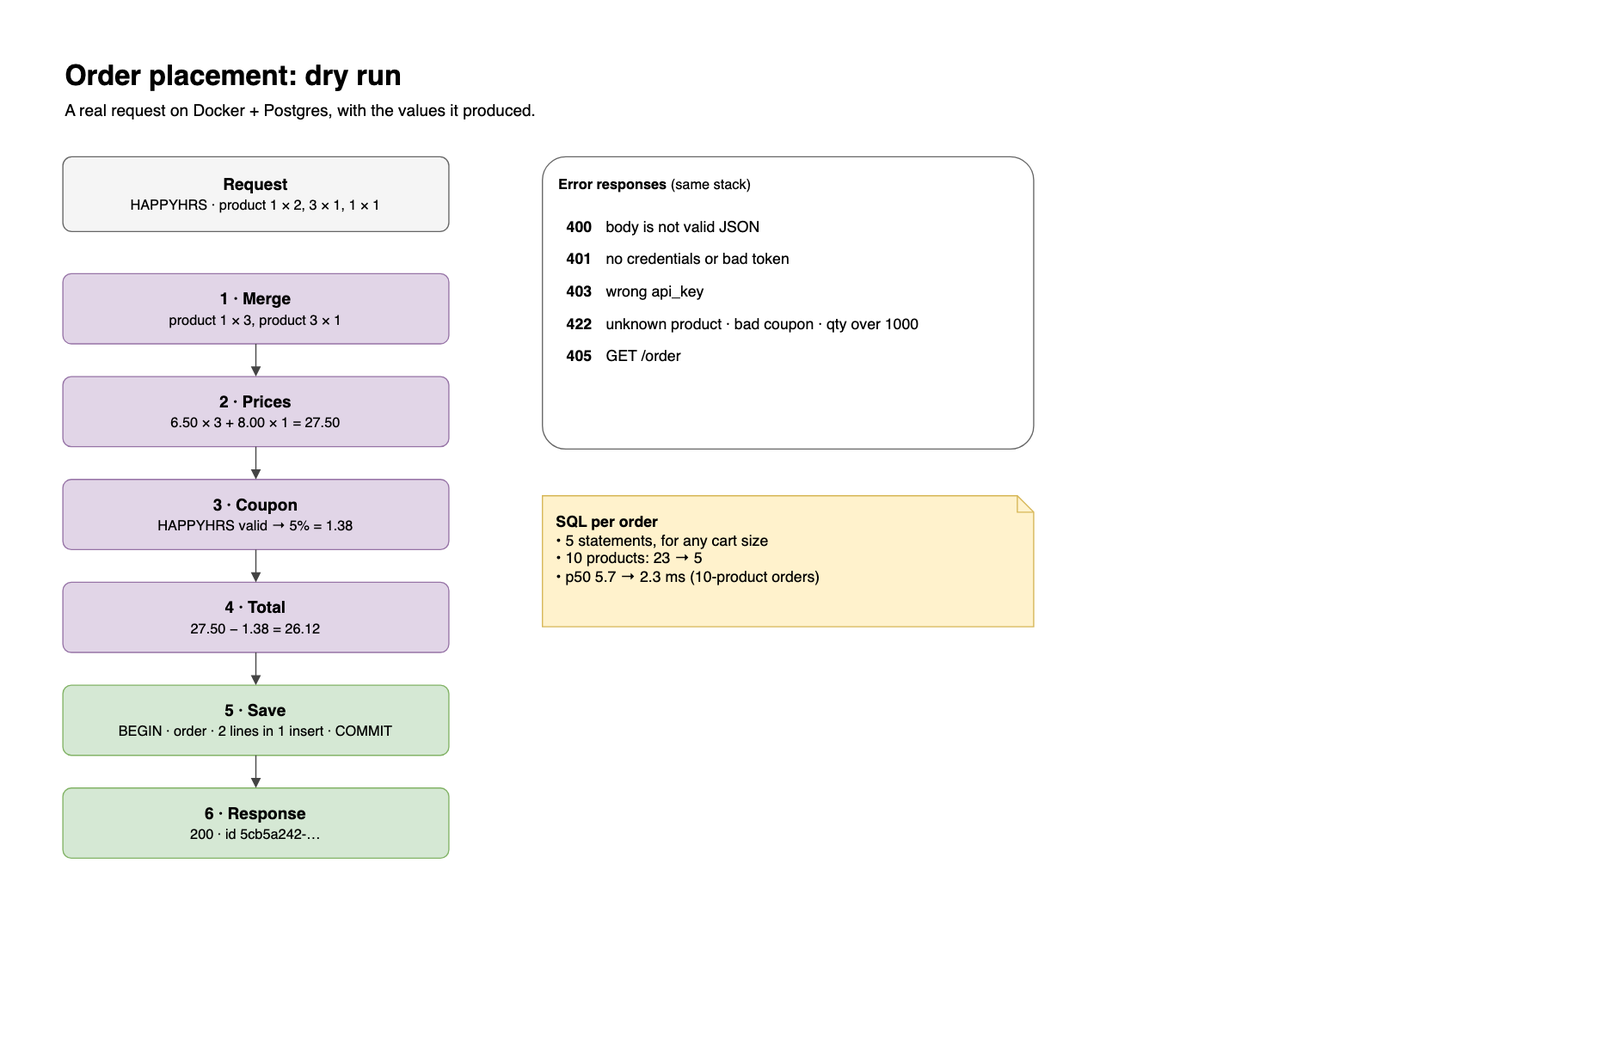
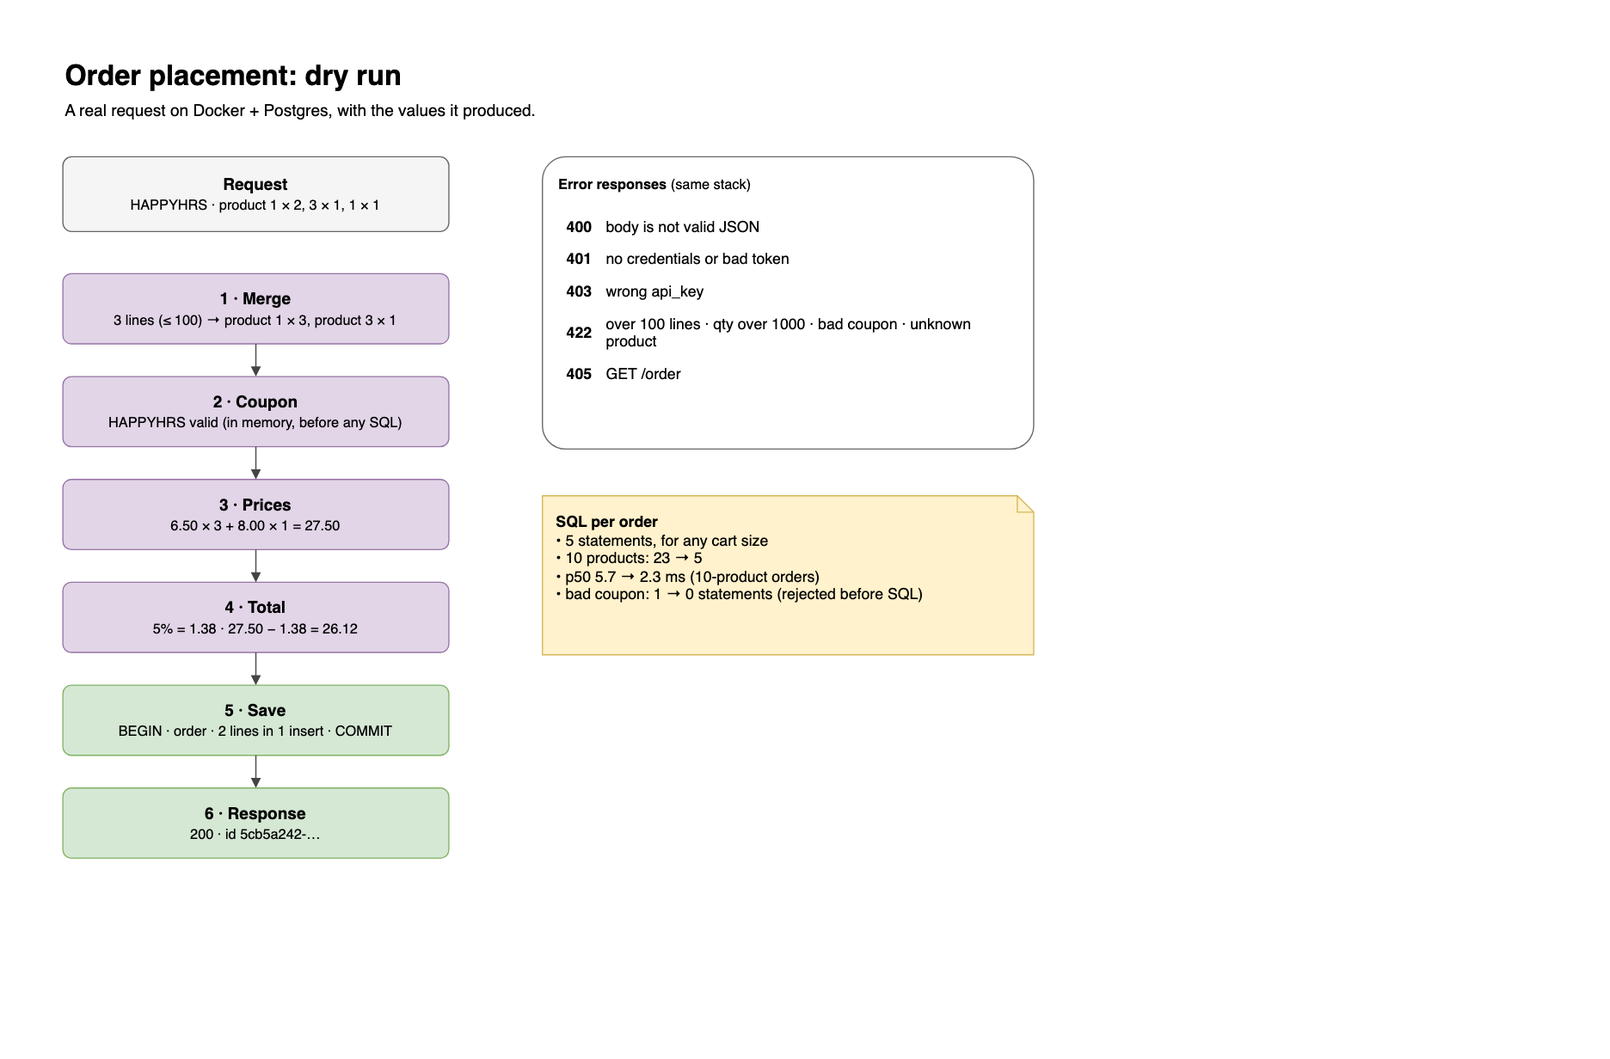
feat: cap order lines at 100 and check the coupon before products
An order with more than 100 lines is rejected with 422 before any
per-line work, counted as too_many_items. The in-memory coupon check
now runs before the product query, so an invalid coupon costs no SQL
(was 1 statement); an order with both a bad coupon and an unknown
product now gets the coupon error. Order diagrams, README, CHANGELOG
and the skill are updated.

diff --git a/.claude/skills/oolio-kart/scripts/diagrams/generate.py b/.claude/skills/oolio-kart/scripts/diagrams/generate.py
@@ -56,6 +56,7 @@ E(oh, pr, pg, "", extra="exitX=0.5;exitY=1;entryX=0.25;entryY=0;")
 E(oh, rp, pg, "", extra="exitX=0.5;exitY=1;entryX=0.75;entryY=0;")
 note(oh, "Key points", ["Prices come from the catalog, never the client",
                         "5 SQL statements per order, any cart size",
+                        "At most 100 lines; a bad coupon never reaches the DB",
                         "Errors: 400 · 401 · 403 · 422 · 500"], 250, 300, 420)
 
 ol = Page("LLD - Order placement flow", "ol")
@@ -84,24 +85,26 @@ lbox("Middleware", "request id · metrics · logs · CORS", "blue")
 ldecide("Credentials valid?", "401 missing or bad token<br>403 wrong api_key")
 ldecide("Allowed to order?", "403 missing scope")
 ldecide("Valid JSON?", "400 bad JSON")
-ldecide("Items OK?<br><span style='font-size:11px'>not empty · qty 1 to 1000</span>", "422 invalid items")
+ldecide("Items OK?<br><span style='font-size:11px'>1 to 100 lines · qty 1 to 1000</span>", "422 invalid items<br>or more than 100 lines")
 lbox("Merge duplicates", "same product → one line")
+ldecide("Coupon valid?<br><span style='font-size:11px'>in memory, if one was sent</span>", "422 invalid coupon<br>(no SQL sent)")
 lbox("Look up products", "1 query for the whole cart")
 ldecide("All products exist?", "422 lists every<br>unknown product")
-ldecide("Coupon valid?<br><span style='font-size:11px'>if one was sent</span>", "422 invalid coupon")
 lbox("Price the order", "subtotal · 5% discount · total")
 lbox("Save", "1 transaction: order + all lines", "green")
 lbox("200 OK", "order JSON", "green")
-note(ol, "Why it is fast", ["1 query reads every product", "1 insert writes every line",
-                            "5 statements for any cart size (was 23 for 10 products)"], 900, 110, 380)
+note(ol, "Why it is fast", ["Cheap checks first: line cap, then the in-memory coupon, then SQL",
+                            "1 query reads every product", "1 insert writes every line",
+                            "5 statements for any cart size (was 23 for 10 products)",
+                            "A bad coupon costs 0 statements (was 1)"], 900, 110, 380)
 
 od = Page("Dry run - real request", "od")
 header(od, "Order placement: dry run", "A real request on Docker + Postgres, with the values it produced.")
 B(od, "Request", "HAPPYHRS · product 1 × 2, 3 × 1, 1 × 1", 30, 110, 330, 64, "gray")
-rows = [("1 · Merge", "product 1 × 3, product 3 × 1"),
-        ("2 · Prices", "6.50 × 3 + 8.00 × 1 = 27.50"),
-        ("3 · Coupon", "HAPPYHRS valid → 5% = 1.38"),
-        ("4 · Total", "27.50 − 1.38 = 26.12"),
+rows = [("1 · Merge", "3 lines (≤ 100) → product 1 × 3, product 3 × 1"),
+        ("2 · Coupon", "HAPPYHRS valid (in memory, before any SQL)"),
+        ("3 · Prices", "6.50 × 3 + 8.00 × 1 = 27.50"),
+        ("4 · Total", "5% = 1.38 · 27.50 − 1.38 = 26.12"),
         ("5 · Save", "BEGIN · order · 2 lines in 1 insert · COMMIT"),
         ("6 · Response", "200 · id 5cb5a242-…")]
 prev = None
@@ -117,11 +120,12 @@ table = ("<b>Error responses</b> (same stack)<br><br>"
          "<tr><td><b>400</b></td><td>body is not valid JSON</td></tr>"
          "<tr><td><b>401</b></td><td>no credentials or bad token</td></tr>"
          "<tr><td><b>403</b></td><td>wrong api_key</td></tr>"
-         "<tr><td><b>422</b></td><td>unknown product · bad coupon · qty over 1000</td></tr>"
+         "<tr><td><b>422</b></td><td>over 100 lines · qty over 1000 · bad coupon · unknown product</td></tr>"
          "<tr><td><b>405</b></td><td>GET /order</td></tr></table>")
 od.box(table, 440, 110, 420, 250, "white", extra="align=left;verticalAlign=top;spacingLeft=12;spacingTop=10;")
 note(od, "SQL per order", ["5 statements, for any cart size", "10 products: 23 → 5",
-                           "p50 5.7 → 2.3 ms (10-product orders)"], 440, 400, 420)
+                           "p50 5.7 → 2.3 ms (10-product orders)",
+                           "bad coupon: 1 → 0 statements (rejected before SQL)"], 440, 400, 420)
 
 # ====================================================================== COUPON
 ch = Page("HLD - Coupon validation", "ch")

diff --git a/internal/order/service_test.go b/internal/order/service_test.go
@@ -43,6 +43,15 @@ func item(productID string, quantity int) order.Item {
 	return order.Item{ProductID: productID, Quantity: quantity}
 }
 
+// lines returns n copies of one line, e.g. to test the line-count cap.
+func lines(n int, line order.Item) []order.Item {
+	out := make([]order.Item, n)
+	for i := range out {
+		out[i] = line
+	}
+	return out
+}
+
 func (s *ServiceSuite) TestValidation() {
 	tests := []struct {
 		name       string
@@ -52,6 +61,9 @@ func (s *ServiceSuite) TestValidation() {
 		wantErr    error
 	}{
 		{name: "empty items", wantErr: order.ErrEmptyItems},
+		{name: "lines at the maximum", items: lines(order.MaxLineItems, item("1", 1))},
+		{name: "lines above the maximum", items: lines(order.MaxLineItems+1, item("1", 1)), wantErr: order.ErrTooManyItems},
+		{name: "line cap is checked before quantities", items: lines(order.MaxLineItems+1, item("999", 0)), wantErr: order.ErrTooManyItems},
 		{name: "zero quantity", items: []order.Item{item("1", 0)}, wantErr: order.ErrInvalidQuantity},
 		{name: "negative quantity", items: []order.Item{item("1", -1)}, wantErr: order.ErrInvalidQuantity},
 		{name: "quantity at the maximum", items: []order.Item{item("1", order.MaxItemQuantity)}},
@@ -186,6 +198,7 @@ func (s *ServiceSuite) TestReportsEventsToRecorder() {
 		{name: "invalid coupon", items: []order.Item{item("1", 1)}, couponCode: "BADCODE1",
 			want: []string{"coupon valid=false", "rejected invalid_coupon"}},
 		{name: "empty items", want: []string{"rejected empty_items"}},
+		{name: "too many lines", items: lines(order.MaxLineItems+1, item("1", 1)), want: []string{"rejected too_many_items"}},
 		{name: "quantity too large", items: []order.Item{item("1", 1001)}, want: []string{"rejected quantity_too_large"}},
 		{name: "unknown product", items: []order.Item{item("999", 1)}, want: []string{"rejected product_not_found"}},
 	}
@@ -199,6 +212,51 @@ func (s *ServiceSuite) TestReportsEventsToRecorder() {
 			_, _ = svc.PlaceOrder(context.Background(), order.CreateOrderRequest{Items: tt.items, CouponCode: tt.couponCode})
 
 			s.Equal(tt.want, rec.events)
+		})
+	}
+}
+
+// spyProducts wraps the seeded catalog and counts GetMany calls, the only
+// product call PlaceOrder makes (and, with Postgres, its only SELECT).
+type spyProducts struct {
+	product.Service
+	getManyCalls int
+}
+
+func (p *spyProducts) GetMany(ctx context.Context, ids []string) (map[string]product.Product, error) {
+	p.getManyCalls++
+	return p.Service.GetMany(ctx, ids)
+}
+
+func (s *ServiceSuite) TestCouponIsCheckedBeforeProductLookup() {
+	tests := []struct {
+		name        string
+		items       []order.Item
+		couponCode  string
+		wantErr     error
+		wantLookups int
+	}{
+		{name: "invalid coupon never looks up products", items: []order.Item{item("1", 1)}, couponCode: "BADCODE1",
+			wantErr: order.ErrInvalidCoupon, wantLookups: 0},
+		{name: "invalid coupon wins over an unknown product", items: []order.Item{item("999", 1)}, couponCode: "BADCODE1",
+			wantErr: order.ErrInvalidCoupon, wantLookups: 0},
+		{name: "valid coupon then one lookup", items: []order.Item{item("1", 1)}, couponCode: "HAPPYHRS", wantLookups: 1},
+		{name: "no coupon then one lookup", items: []order.Item{item("1", 1)}, wantLookups: 1},
+	}
+	for _, tt := range tests {
+		s.Run(tt.name, func() {
+			logger := slog.New(slog.NewTextHandler(io.Discard, nil))
+			spy := &spyProducts{Service: product.NewService(product.NewMemoryRepository(product.SeedProducts()), logger)}
+			svc := order.NewService(spy, fakeCoupons{"HAPPYHRS": true}, order.NewMemoryRepository(), nil, logger)
+
+			_, err := svc.PlaceOrder(context.Background(), order.CreateOrderRequest{Items: tt.items, CouponCode: tt.couponCode})
+
+			if tt.wantErr != nil {
+				s.Require().ErrorIs(err, tt.wantErr)
+			} else {
+				s.Require().NoError(err)
+			}
+			s.Equal(tt.wantLookups, spy.getManyCalls)
 		})
 	}
 }

diff --git a/internal/order/service.go b/internal/order/service.go
@@ -54,6 +54,7 @@ func rejectionReason(err error) (string, bool) {
 		reason string
 	}{
 		{ErrEmptyItems, "empty_items"},
+		{ErrTooManyItems, "too_many_items"},
 		{ErrInvalidQuantity, "invalid_quantity"},
 		{ErrQuantityTooLarge, "quantity_too_large"},
 		{ErrProductNotFound, "product_not_found"},
@@ -70,6 +71,9 @@ func rejectionReason(err error) (string, bool) {
 func (s *service) placeOrder(ctx context.Context, req CreateOrderRequest) (Order, error) {
 	if len(req.Items) == 0 {
 		return Order{}, ErrEmptyItems
+	}
+	if len(req.Items) > MaxLineItems {
+		return Order{}, ErrTooManyItems
 	}
 	// Each raw quantity is bounded before merging, so summing duplicates
 	// below can't overflow int.
@@ -93,6 +97,17 @@ func (s *service) placeOrder(ctx context.Context, req CreateOrderRequest) (Order
 		}
 	}
 
+	// The coupon check is an in-memory binary search, so it runs before the
+	// product lookup: an order with a bad coupon never reaches the database.
+	valid := req.CouponCode == "" || s.coupons.IsValid(req.CouponCode)
+	if req.CouponCode != "" {
+		s.rec.CouponChecked(valid)
+	}
+	if !valid {
+		s.logger.WarnContext(ctx, "order: rejected invalid coupon", slog.String("coupon_code", req.CouponCode))
+		return Order{}, ErrInvalidCoupon
+	}
+
 	// One query for every product in the cart, instead of one per line: the
 	// cost stays flat as the cart grows, and all prices come from the same
 	// moment.
@@ -113,15 +128,6 @@ func (s *service) placeOrder(ctx context.Context, req CreateOrderRequest) (Order
 	for i, item := range merged {
 		resolved[i] = found[item.ProductID]
 		subtotal += resolved[i].Price * float64(item.Quantity)
-	}
-
-	valid := req.CouponCode == "" || s.coupons.IsValid(req.CouponCode)
-	if req.CouponCode != "" {
-		s.rec.CouponChecked(valid)
-	}
-	if !valid {
-		s.logger.WarnContext(ctx, "order: rejected invalid coupon", slog.String("coupon_code", req.CouponCode))
-		return Order{}, ErrInvalidCoupon
 	}
 
 	discount := 0.0

diff --git a/internal/order/placeorder_integration_test.go b/internal/order/placeorder_integration_test.go
@@ -143,3 +143,33 @@ func (s *PlaceOrderDBSuite) TestUnknownProductsAreAllReportedAndNothingIsStored(
 	s.Require().NoError(s.pool.QueryRow(ctx, `SELECT COUNT(*) FROM orders`).Scan(&after))
 	s.Equal(before, after)
 }
+
+func (s *PlaceOrderDBSuite) TestInvalidCouponSendsNoStatements() {
+	logger := slog.New(slog.NewTextHandler(io.Discard, nil))
+	products := product.NewService(product.NewDBRepository(s.pool), logger)
+	svc := order.NewService(products, fakeCoupons{"HAPPYHRS": true}, order.NewDBRepository(s.pool), nil, logger)
+
+	tests := []struct {
+		name           string
+		couponCode     string
+		wantErr        error
+		wantStatements int64
+	}{
+		{name: "invalid coupon: rejected before the database", couponCode: "BADCODE1", wantErr: order.ErrInvalidCoupon, wantStatements: 0},
+		{name: "valid coupon: the usual batched order", couponCode: "HAPPYHRS", wantStatements: batchedStatements},
+	}
+	for _, tt := range tests {
+		s.Run(tt.name, func() {
+			s.counter.n.Store(0)
+
+			_, err := svc.PlaceOrder(context.Background(), order.CreateOrderRequest{Items: cart(3), CouponCode: tt.couponCode})
+
+			if tt.wantErr != nil {
+				s.Require().ErrorIs(err, tt.wantErr)
+			} else {
+				s.Require().NoError(err)
+			}
+			s.Equal(tt.wantStatements, s.counter.n.Load())
+		})
+	}
+}

diff --git a/internal/httpapi/order_handler_test.go b/internal/httpapi/order_handler_test.go
@@ -40,6 +40,7 @@ func (s *OrderHandlerSuite) TestCreateStatusCodes() {
 	}{
 		{name: "malformed json", body: `{not json`, service: &fakeOrderService{}, wantStatus: http.StatusBadRequest},
 		{name: "empty items", body: `{"items":[]}`, service: &fakeOrderService{err: order.ErrEmptyItems}, wantStatus: http.StatusUnprocessableEntity},
+		{name: "too many items", body: `{"items":[{"productId":"1","quantity":1}]}`, service: &fakeOrderService{err: order.ErrTooManyItems}, wantStatus: http.StatusUnprocessableEntity},
 		{name: "quantity too large", body: `{"items":[{"productId":"1","quantity":20000000}]}`, service: &fakeOrderService{err: order.ErrQuantityTooLarge}, wantStatus: http.StatusUnprocessableEntity},
 		{name: "invalid coupon", body: `{"items":[{"productId":"1","quantity":1}],"couponCode":"BAD"}`, service: &fakeOrderService{err: order.ErrInvalidCoupon}, wantStatus: http.StatusUnprocessableEntity},
 		{name: "unexpected service error", body: `{"items":[{"productId":"1","quantity":1}]}`, service: &fakeOrderService{err: errors.New("db down")}, wantStatus: http.StatusInternalServerError},

diff --git a/internal/httpapi/contract_test.go b/internal/httpapi/contract_test.go
@@ -8,6 +8,7 @@ import (
 	"log/slog"
 	"net/http"
 	"net/http/httptest"
+	"strings"
 	"testing"
 
 	"github.com/getkin/kin-openapi/openapi3"
@@ -201,6 +202,7 @@ func (s *ContractSuite) TestPlaceOrderWithAPIKey() {
 		{name: "wrong api key", body: `{"items":[{"productId":"1","quantity":1}]}`, headers: map[string]string{"api_key": "wrong-key"}, wantStatus: http.StatusForbidden},
 		{name: "invalid coupon", body: `{"items":[{"productId":"1","quantity":1}],"couponCode":"NOTVALID1"}`, headers: map[string]string{"api_key": testAPIKey}, wantStatus: http.StatusUnprocessableEntity},
 		{name: "empty items", body: `{"items":[]}`, headers: map[string]string{"api_key": testAPIKey}, wantStatus: http.StatusUnprocessableEntity},
+		{name: "101 lines", body: `{"items":[` + strings.TrimSuffix(strings.Repeat(`{"productId":"1","quantity":1},`, 101), ",") + `]}`, headers: map[string]string{"api_key": testAPIKey}, wantStatus: http.StatusUnprocessableEntity},
 	}
 	for _, tt := range tests {
 		s.Run(tt.name, func() {

diff --git a/internal/order/order.go b/internal/order/order.go
@@ -12,11 +12,18 @@ import (
 // maps each of them to 422.
 var (
 	ErrEmptyItems       = errors.New("order must contain at least one item")
+	ErrTooManyItems     = fmt.Errorf("order can have at most %d items", MaxLineItems)
 	ErrInvalidQuantity  = errors.New("item quantity must be greater than zero")
 	ErrQuantityTooLarge = fmt.Errorf("item quantity must be at most %d", MaxItemQuantity)
 	ErrProductNotFound  = errors.New("one or more products were not found")
 	ErrInvalidCoupon    = errors.New("coupon code is invalid")
 )
+
+// MaxLineItems caps how many lines one order may send, before duplicates are
+// merged. It is checked before any work that grows with the cart, so a
+// request with a million lines costs one comparison, not a loop, a map and a
+// huge query.
+const MaxLineItems = 100
 
 // MaxItemQuantity caps one line item, after duplicates are merged. It keeps
 // order totals inside the database columns, so an absurd quantity is a 422,

diff --git a/internal/httpapi/order_handler.go b/internal/httpapi/order_handler.go
@@ -79,6 +79,7 @@ func (h *OrderHandler) Create(w http.ResponseWriter, r *http.Request) {
 	if err != nil {
 		switch {
 		case errors.Is(err, order.ErrEmptyItems),
+			errors.Is(err, order.ErrTooManyItems),
 			errors.Is(err, order.ErrInvalidQuantity),
 			errors.Is(err, order.ErrQuantityTooLarge),
 			errors.Is(err, order.ErrProductNotFound),

diff --git a/.claude/skills/oolio-kart/references/order-flow.md b/.claude/skills/oolio-kart/references/order-flow.md
@@ -11,17 +11,24 @@
    items to `order.Item` and calls `Service.PlaceOrder`.
 4. `order.service.PlaceOrder` (`internal/order/service.go`):
    - no items → `ErrEmptyItems`
+   - more than `MaxLineItems` (100) raw lines → `ErrTooManyItems`. Checked
+     before anything loops over the items, so a million-line body costs one
+     comparison (JSON decoding still happens; there is no body size limit).
    - each raw item: quantity ≤ 0 → `ErrInvalidQuantity`; > `MaxItemQuantity`
      (1000) → `ErrQuantityTooLarge`. Checked **before** merging so summing
      duplicates can't overflow `int` into a negative number.
    - `mergeItems`: same `productId` twice → one line, quantities summed, first-seen
      order kept (the `order_items` PK is `(order_id, product_id)`).
    - merged quantity > 1000 → `ErrQuantityTooLarge` (e.g. 600 + 600).
+   - `couponCode != ""` and invalid → `ErrInvalidCoupon`. Checked **before** the
+     product lookup: it is an in-memory binary search, so a bad coupon never
+     reaches the database (0 SQL statements; `PlaceOrderDBSuite` asserts it).
+     An order with both a bad coupon and an unknown product gets the coupon
+     error.
    - one `products.GetMany(ids)` for the whole cart (`WHERE id = ANY($1)`);
      every id missing from the map is reported in one `ErrProductNotFound`
      (`products 999, 11`); any other error → 500.
    - `subtotal += price × qty` (prices from the catalog, never the client).
-   - `couponCode != ""` and invalid → `ErrInvalidCoupon`.
    - `discount = roundMoney(subtotal × 0.05)` if a coupon was given;
      `total = roundMoney(subtotal − discount)`; id = `idgen.NewUUID()` (v4).
 5. `DBRepository.Create`: `pgx.BeginFunc` → insert `orders` (coupon NULL when
@@ -29,7 +36,7 @@
    $4::numeric[])` for all lines with `unit_price` → commit, or rollback on any
    error. An order is 5 statements whatever the cart size; `PlaceOrderDBSuite`
    counts them with a pgx tracer and fails if that grows.
-6. Handler maps errors with `errors.Is`: the five `Err*` sentinels → 422
+6. Handler maps errors with `errors.Is`: the six `Err*` sentinels → 422
    `validation_error`; anything else → logged + 500 `internal`. Success → 200.
 
 ## Status codes
@@ -42,7 +49,7 @@
 | 401 | no credentials, or a bad/expired/tampered Bearer token |
 | 403 | wrong `api_key`, or a token without `create_order` |
 | 405 | wrong method on `/order` (plain text) |
-| 422 | empty items, quantity out of 1..1000, unknown product, invalid coupon |
+| 422 | empty items, more than 100 lines, quantity out of 1..1000, unknown product, invalid coupon |
 | 500 | unexpected (DB down, panic) |
 
 ## Worked example (captured from the real stack)

diff --git a/README.md b/README.md
@@ -41,7 +41,7 @@ Go backend for Oolio's food-ordering OpenAPI 3.1 spec, with coupon validation ov
 - **Metrics:** Prometheus `/metrics` (HTTP, orders, coupons, Go runtime) with a Grafana dashboard
 - **Docker:** one command, distroless runtime image
 - **CI on every push:** gofmt, vet, golangci-lint, build, race-enabled tests
-- **Postman collection:** 19 requests, each with assertions
+- **Postman collection:** 20 requests, each with assertions
 
 ---
 
@@ -168,6 +168,7 @@ Spec: [`api/openapi.yaml`](api/openapi.yaml)
 ```
 
 - `items` are merged: product `1` sent twice becomes quantity `3`
+- An order can have 1 to 100 lines (counted before merging); otherwise `422` "order can have at most 100 items"
 - `quantity` must be 1 to 1000 per line item, after merging; otherwise `422`
 - `couponCode` and `subtotal` extend the base spec; `discounts` and `total` are in it
 - Errors use one shape: `{ "code": 422, "type": "validation_error", "message": "..." }`
@@ -376,6 +377,7 @@ Plus the standard `go_*` and `process_*` metrics.
 | One transaction per order | Never an order without its items |
 | Batched order queries | One `SELECT … ANY($1)` + one `unnest` insert: 5 statements for any cart size |
 | Quantity capped at 1000 per line | Totals stay inside the DB columns; bad input is `422`, not `500` |
+| At most 100 lines per order, checked first | A huge cart costs one comparison, not a loop, a map and a giant query |
 | Sentinel errors + `errors.Is` | Status codes mapped by identity, not string matching |
 | 422 for validation, 400 for bad JSON | Separates "can't parse" from "business rule failed" |
 | In-memory fallback in dev only | Reviewer convenience; stage and prod fail fast |
@@ -417,7 +419,7 @@ Found in self-review; planned next.
 | Middleware | `middleware_test.go` | Bearer vs `api_key`, 401 vs 403, scope check, CORS, request id |
 | Repository | `*_repository_test.go` | In-memory; Postgres with `-tags integration` |
 | Contract | `contract_test.go` | Every response validated against `api/openapi.yaml`, incl. `/auth/token` |
-| End to end | `postman/` | 19 requests incl. all error paths and the JWT flow |
+| End to end | `postman/` | 20 requests incl. all error paths and the JWT flow |
 
 - Table-driven cases throughout, run with `-race` in CI
 - Real-data check: `HAPPYHRS`, `FIFTYOFF` valid, `SUPER100` invalid

diff --git a/.claude/skills/oolio-kart/references/known-limitations.md b/.claude/skills/oolio-kart/references/known-limitations.md
@@ -1,8 +1,7 @@
 # Known limitations
 
 Found in self-review. This is the full list; the README's Known Limitations
-table shows the main ones (it leaves out the coupon-check order, one worker per
-file, the `"01"` id and the empty CORS origin rows). When one is fixed, remove it here and from the README if it is listed there, and add a
+table shows the main ones (it leaves out the one worker per file, the `"01"` id and the empty CORS origin rows). When one is fixed, remove it here and from the README if it is listed there, and add a
 CHANGELOG entry.
 
 | Limitation | Where | Planned fix |
@@ -16,7 +15,6 @@ CHANGELOG entry.
 | No request body size limit | `OrderHandler.Create` | `http.MaxBytesReader` |
 | Migrations have no lock across replicas | `postgres.Migrate` | `pg_advisory_lock` |
 | `/metrics` is public on the API port | `httpapi.NewRouter` | Separate internal port or network policy |
-| Coupon checked after the product lookups | `service.PlaceOrder` | Check it first (in-memory, cheap) |
 | One worker per coupon file | `coupon.Build` | Split each file by gzip member / byte range |
 | `"01"` works on `GET /product/01` but not as an order `productId` | handler vs service | Normalise ids in one place |
 | `CORS_ALLOWED_ORIGIN=""` can't disable CORS (viper ignores empty env vars) | `internal/config` | Set `cors.allowedOrigin` to `""` in the file, or `AllowEmptyEnv` |
@@ -26,4 +24,5 @@ CHANGELOG entry.
 
 Fixed so far (don't re-add): N+1 order queries (batched, 5 statements per order),
 huge quantity returned 500 (capped at 1000 → 422),
+coupon checked after the product lookup (now before it, 0 SQL for a bad coupon),
 truncated gzip line indexed as a code, invalid `.golangci.yml` v1 key.

diff --git a/CHANGELOG.md b/CHANGELOG.md
@@ -6,6 +6,16 @@ Format: [Keep a Changelog](https://keepachangelog.com/en/1.1.0/) · Versioning: 
 
 ## [Unreleased]
 
+### Added
+
+- **Line-item cap:** an order can have at most 100 lines (`MaxLineItems`), checked before any per-line work; more is `422` "order can have at most 100 items", with the metric reason `too_many_items`
+- Postman request with 101 lines (20 requests, 34 assertions)
+
+### Changed
+
+- **Coupon checked before the product lookup:** the in-memory coupon check now runs before `GetMany`, so an invalid coupon is rejected with no SQL statement (was 1). An order with both an invalid coupon and an unknown product now gets the coupon error (still `422`)
+- Order diagrams show the 100-line cap and the coupon check before the product lookup
+
 ## [1.4.0] - 2026-09-24
 
 ### Added
